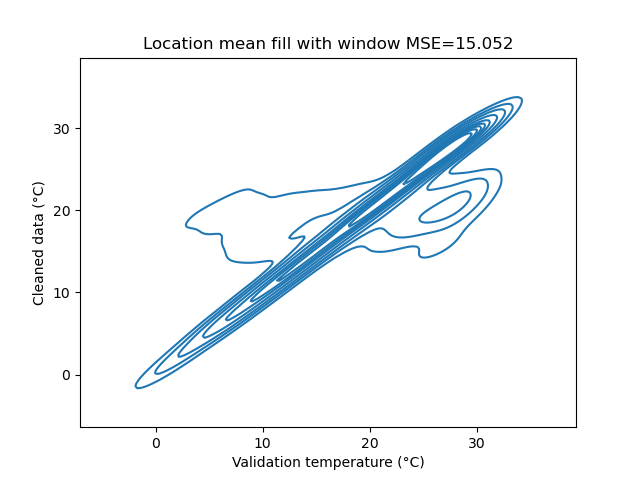
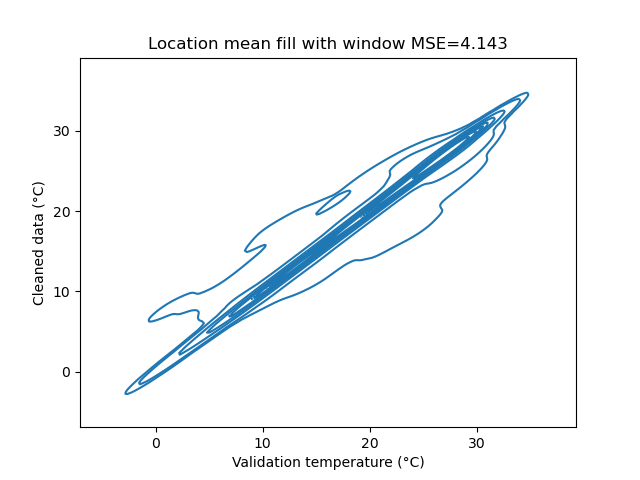
update
adding images for readme
location fill with lon lat sort order inverted
remove unnecessary code

diff --git a/basic_data_cleaning/data_cleaning.py b/basic_data_cleaning/data_cleaning.py
@@ -87,10 +87,10 @@ def fill_mean_chron_win(df, filename='chron_mean_fill.csv', variable="sea_surfac
 # improve mean fill to be chronologically implemented
 def fill_mean_loc(df, filename='loc_mean_fill.csv', variable="sea_surface_temp", save=True, window=3):
     """
-    df must be already sorted chronologically
+    df must be already sorted by location (lat then long)
     """
     n = len(df)
-    df.sort_values(by=['longitude', 'latitude'], inplace=True) # sort by location
+
     # iterate through each row in dataset
     if window >= len(df):
         print(f'Invalid window selected, must be less that data length {n}')
@@ -111,16 +111,22 @@ def fill_mean_loc(df, filename='loc_mean_fill.csv', variable="sea_surface_temp",
 
 
 if __name__ == "__main__":
-    # define variables
+    # # define variables
+    # sample_data_path = '../basic_data_cleaning/data/original_data/noaa_icoads_2012_sample.csv'
+    # data_save_path = f'../basic_data_cleaning/data/cleaned_data/'
+    #
+    # # import data
+    # sample_df = pd.read_csv(sample_data_path)
+    #
+    # # clean sample data
+    # drop_nan(sample_df.copy(), 'dropped_missing_sample.csv')
+    # fill_mean(sample_df.copy(), 'mean_fill_sample.csv')
+    # fill_mean_loc(sample_df.copy(), 'loc_mean_fill_sample.csv')
+    # fill_mean_chron(sample_df.copy(), 'chron_mean_fill_sample.csv')  # df must be chronologically sorted first
+
     sample_data_path = '../basic_data_cleaning/data/original_data/noaa_icoads_2012_sample.csv'
-    data_save_path = f'../basic_data_cleaning/data/cleaned_data/'
 
     # import data
     sample_df = pd.read_csv(sample_data_path)
 
-    # clean sample data
-    drop_nan(sample_df.copy(), 'dropped_missing_sample.csv')
-    fill_mean(sample_df.copy(), 'mean_fill_sample.csv')
-    fill_mean_loc(sample_df.copy(), 'loc_mean_fill_sample.csv')
-    fill_mean_chron(sample_df.copy(), 'chron_mean_fill_sample.csv')  # df must be chronologically sorted first
-
+    print(sample_df.describe())

diff --git a/basic_data_cleaning/clean_method_comparison.py b/basic_data_cleaning/clean_method_comparison.py
@@ -42,8 +42,8 @@ val_df = pd.read_csv(''.join([validation_data_path, validation_files[1]]))
 # for some reason the sorts are not working properly in the cleaning functions so sort again here
 chron_sort_t_df = test_df.sort_values(by=['month', 'day', 'hour'])
 chron_sort_v_df = val_df.sort_values(by=['month', 'day', 'hour'])
-loc_sort_t_df = test_df.sort_values(by=['longitude', 'latitude'])
-loc_sort_v_df = val_df.sort_values(by=['longitude', 'latitude'])
+loc_sort_t_df = test_df.sort_values(by=['latitude','longitude']) # (by=['longitude', 'latitude'])
+loc_sort_v_df = val_df.sort_values(by=['latitude','longitude']) # (by=['longitude', 'latitude'])
 # apply cleaning methods
 drop_nan_df = drop_nan(test_df, save=False)
 fill_mean_df = fill_mean(test_df, save=False)
